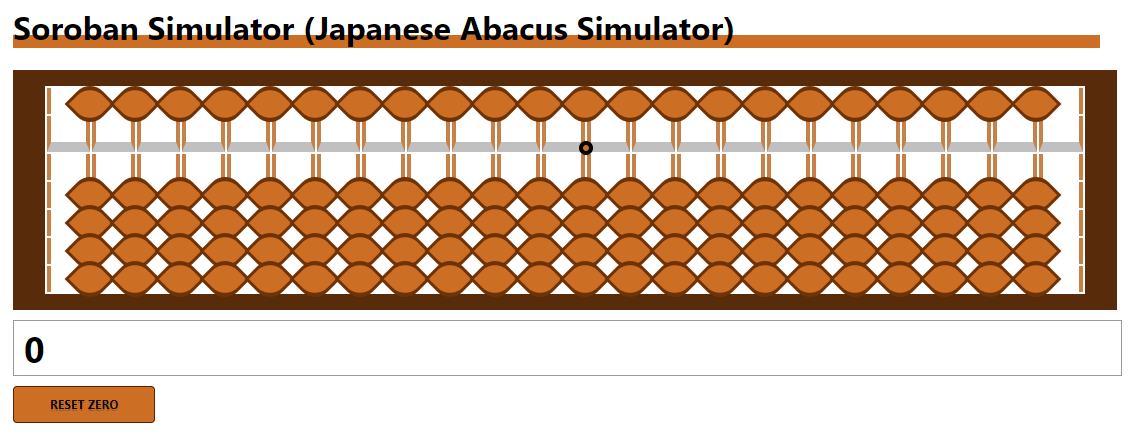
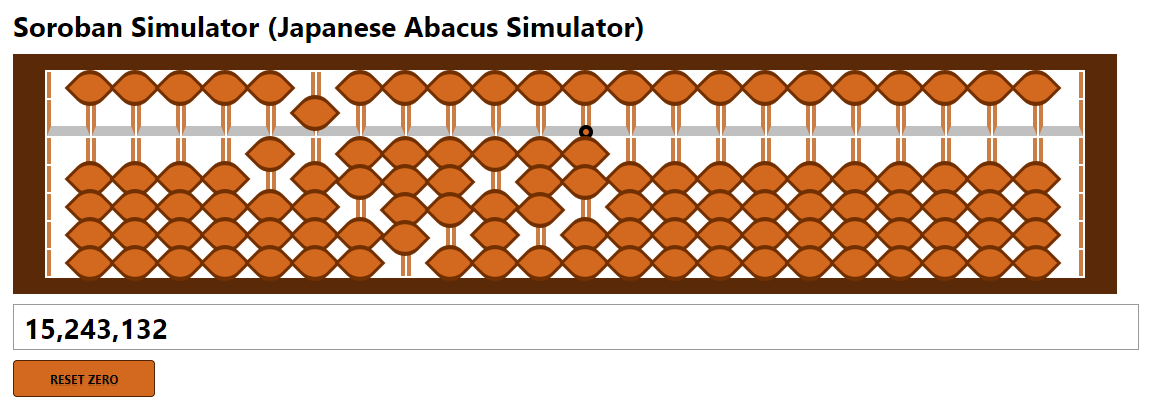
update design

diff --git a/public/index.html b/public/index.html
@@ -6,10 +6,12 @@
     <meta name="viewport" content="width=device-width, initial-scale=1" />
     <meta name="theme-color" content="#000000" />
     <meta
-      name="description"
-      content="Web site created using create-react-app"
+      name="Soroban Simulator"
+      content="Soroban Simulator (Japanese Abacus Simulator)"
     />
-    <link rel="apple-touch-icon" href="%PUBLIC_URL%/logo192.png" />
+    <!--
+      <link rel="apple-touch-icon" href="%PUBLIC_URL%/logo192.png" />
+    -->
     <!--
       manifest.json provides metadata used when your web app is installed on a
       user's mobile device or desktop. See https://developers.google.com/web/fundamentals/web-app-manifest/

diff --git a/src/App.js b/src/App.js
@@ -227,7 +227,7 @@ class Soroban extends React.Component {
       let digit = Math.pow(10, Math.abs(d)) * (d >= 0 ? 1 : -1);
       cellComponents.push(<SorobanCell 
         key={index} index={index} value={params.value} digit={digit}
-        tama={params.tama} teiiten={params.teiiten && digit == 1} separater={params.sep} cells={this.state.cells} 
+        tama={params.tama} teiiten={params.teiiten && digit === 1} separater={params.sep} cells={this.state.cells} 
         changeCell={this.changeCell} isEnableTouch={this.isEnableTouch}
       />);
     }

diff --git a/src/index.css b/src/index.css
@@ -1,9 +1,16 @@
 body {
   /*background-color: #D4D5D7;*/
   margin: 0px 40px 0px 40px;
+	display: inline-block;
+	min-width: 90%;
   font-family: -apple-system, BlinkMacSystemFont, 'Segoe UI', 'Roboto', 'Oxygen',
     'Ubuntu', 'Cantarell', 'Fira Sans', 'Droid Sans', 'Helvetica Neue',
     sans-serif;
   -webkit-font-smoothing: antialiased;
   -moz-osx-font-smoothing: grayscale;
+}
+
+h1 {
+  font-size: 28px;
+  margin: 10px 0px 10px 0px;
 }

diff --git a/src/App.css b/src/App.css
@@ -37,11 +37,11 @@
 .amount {
   background: #fff;
   border: 1px solid #999;
-  font-size: 36px;
+  font-size: 28px;
   font-weight: bold;
-  line-height: 34px;
+  line-height: 26px;
   width: 100%;
-  height: 34px;
+  height: 24px;
   padding: 0;
   padding: 10px;
 }
@@ -73,8 +73,4 @@
   border: solid 1px #502201;
   box-shadow: none;
   text-shadow: none;
-}
-
-h1 {
-  background: linear-gradient(transparent 70%, #d2691e 70%);
 }
